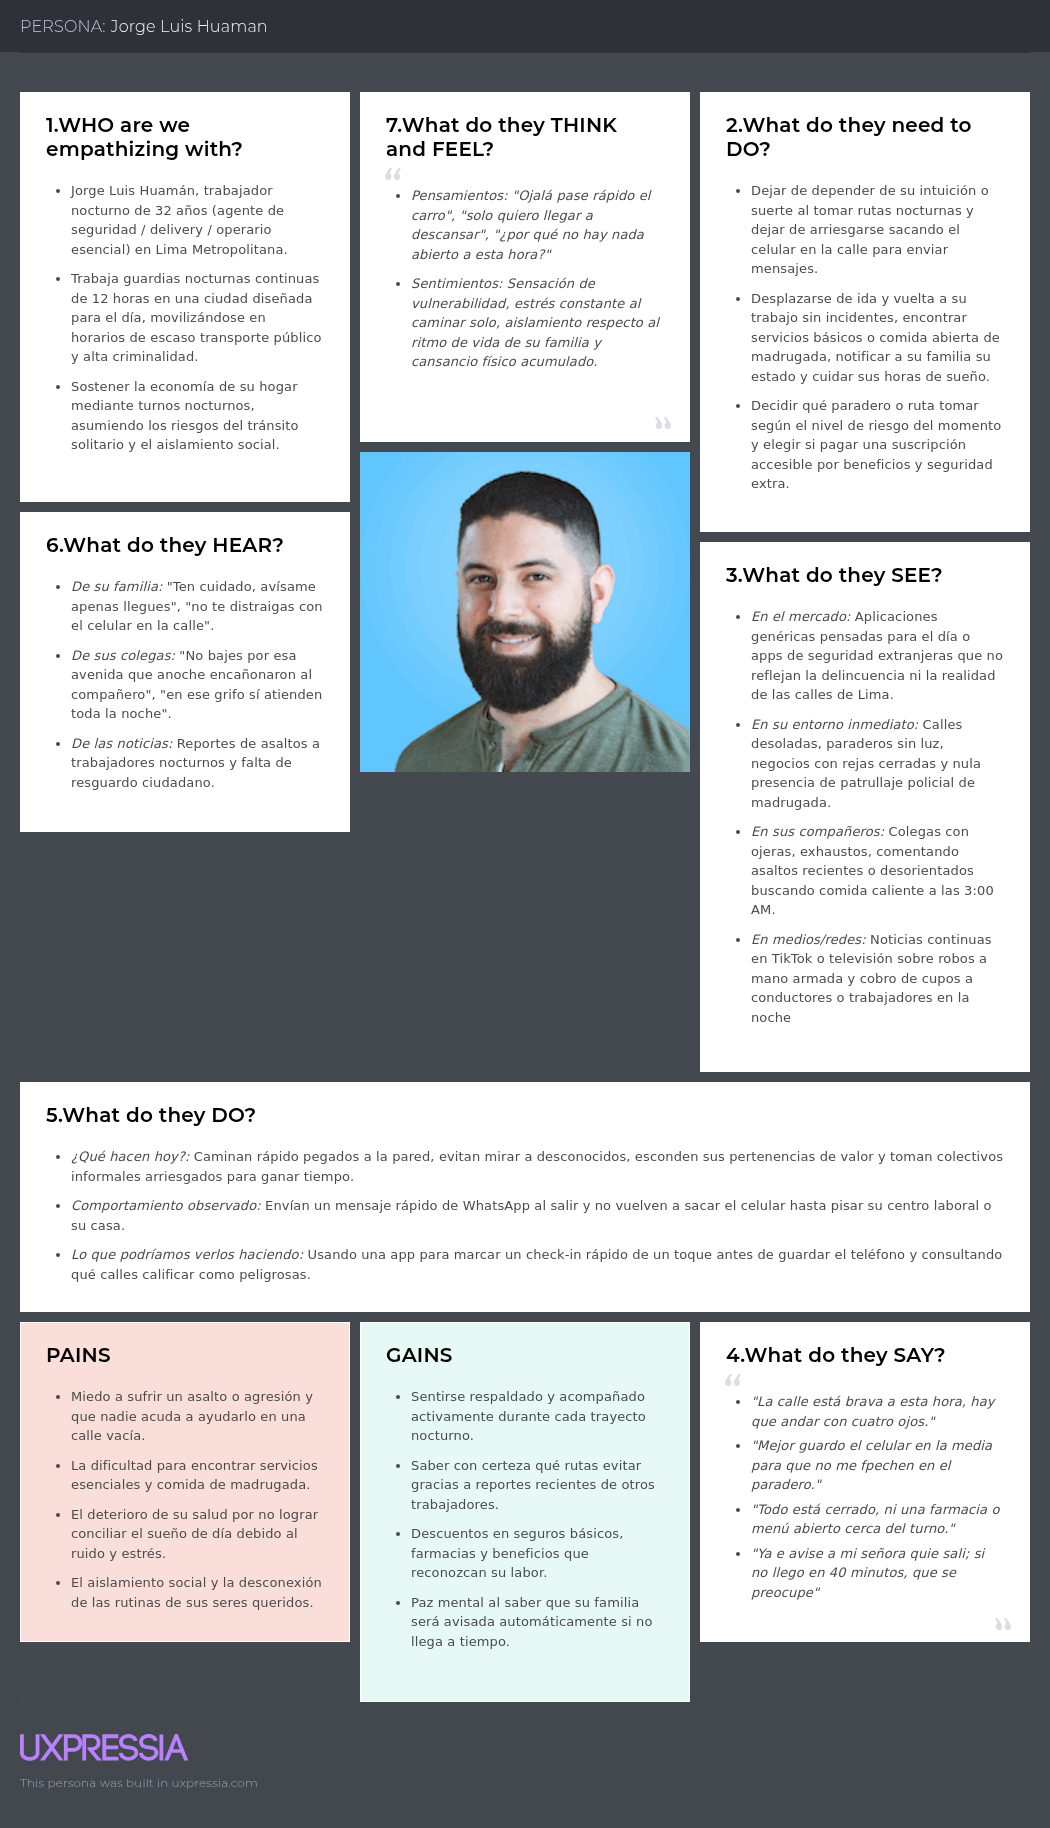
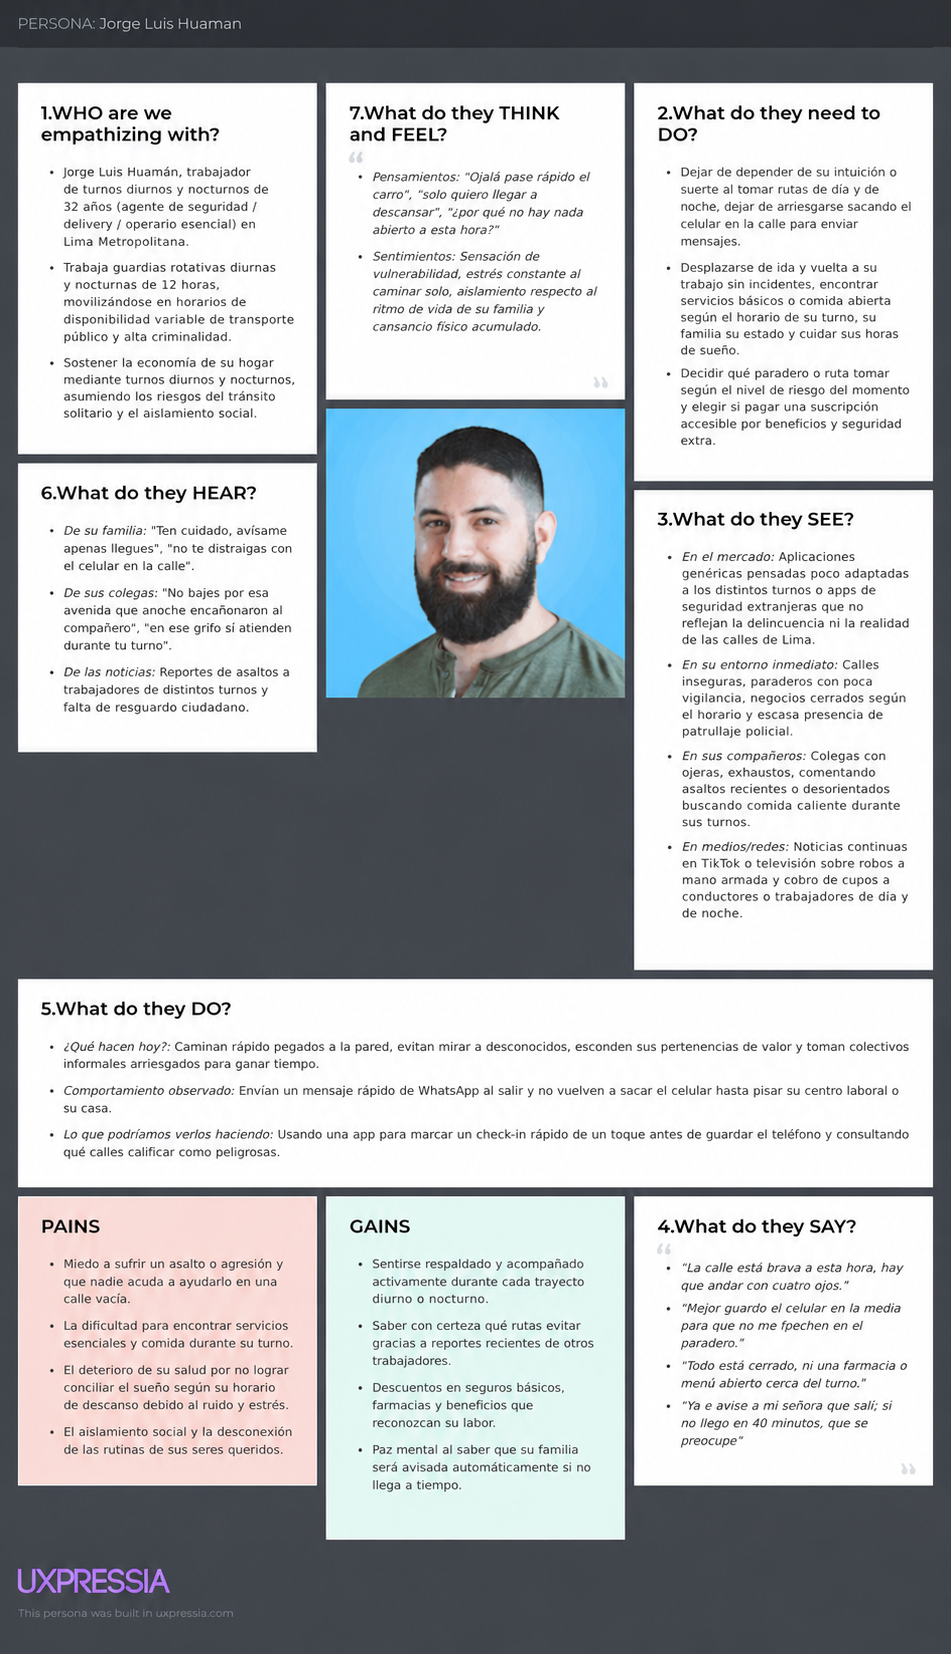
docs(empathy): adapt both maps to day and night shifts

diff --git a/README.md b/README.md
@@ -113,7 +113,7 @@ Se organizaron los aportes del equipo mediante ramas de funcionalidades y Pull R
       - [Segmento Objetivo 1: Trabajador de Turno Diurno o Nocturno](#segmento-objetivo-1-trabajador-de-turno-diurno-o-nocturno-1)
       - [Segmento Objetivo 2: Contacto de Confianza](#segmento-objetivo-2-contacto-de-confianza-1)
     - [2.3.4. Empathy Mapping.](#234-empathy-mapping)
-      - [Segmento Objetivo 1: Trabajador de Turno Nocturno](#segmento-objetivo-1-trabajador-de-turno-nocturno)
+      - [Segmento Objetivo 1: Trabajador de Turno Diurno o Nocturno](#segmento-objetivo-1-trabajador-de-turno-diurno-o-nocturno-2)
       - [Segmento Objetivo 2: Contacto de Confianza](#segmento-objetivo-2-contacto-de-confianza-2)
   - [2.4. Big Picture EventStorming.](#24-big-picture-eventstorming)
   - [2.5. Ubiquitous Language.](#25-ubiquitous-language)
@@ -742,7 +742,7 @@ En esta sección se presentan los mapas de viaje de usuario, reflejando la exper
 ### 2.3.4. Empathy Mapping.
 En esta sección se presentan los Empathy Maps. Estos nos ayudarán a comprender las experiencias, emociones y pensamientos que expresan los usuarios de cada segmento objetivo.
 
-#### Segmento Objetivo 1: Trabajador de Turno Nocturno
+#### Segmento Objetivo 1: Trabajador de Turno Diurno o Nocturno
 ![Empathy Map - Jorge Luis Huamán](resources/imgs/em-Jorge%20Luis%20Huaman.png)
 
 #### Segmento Objetivo 2: Contacto de Confianza
